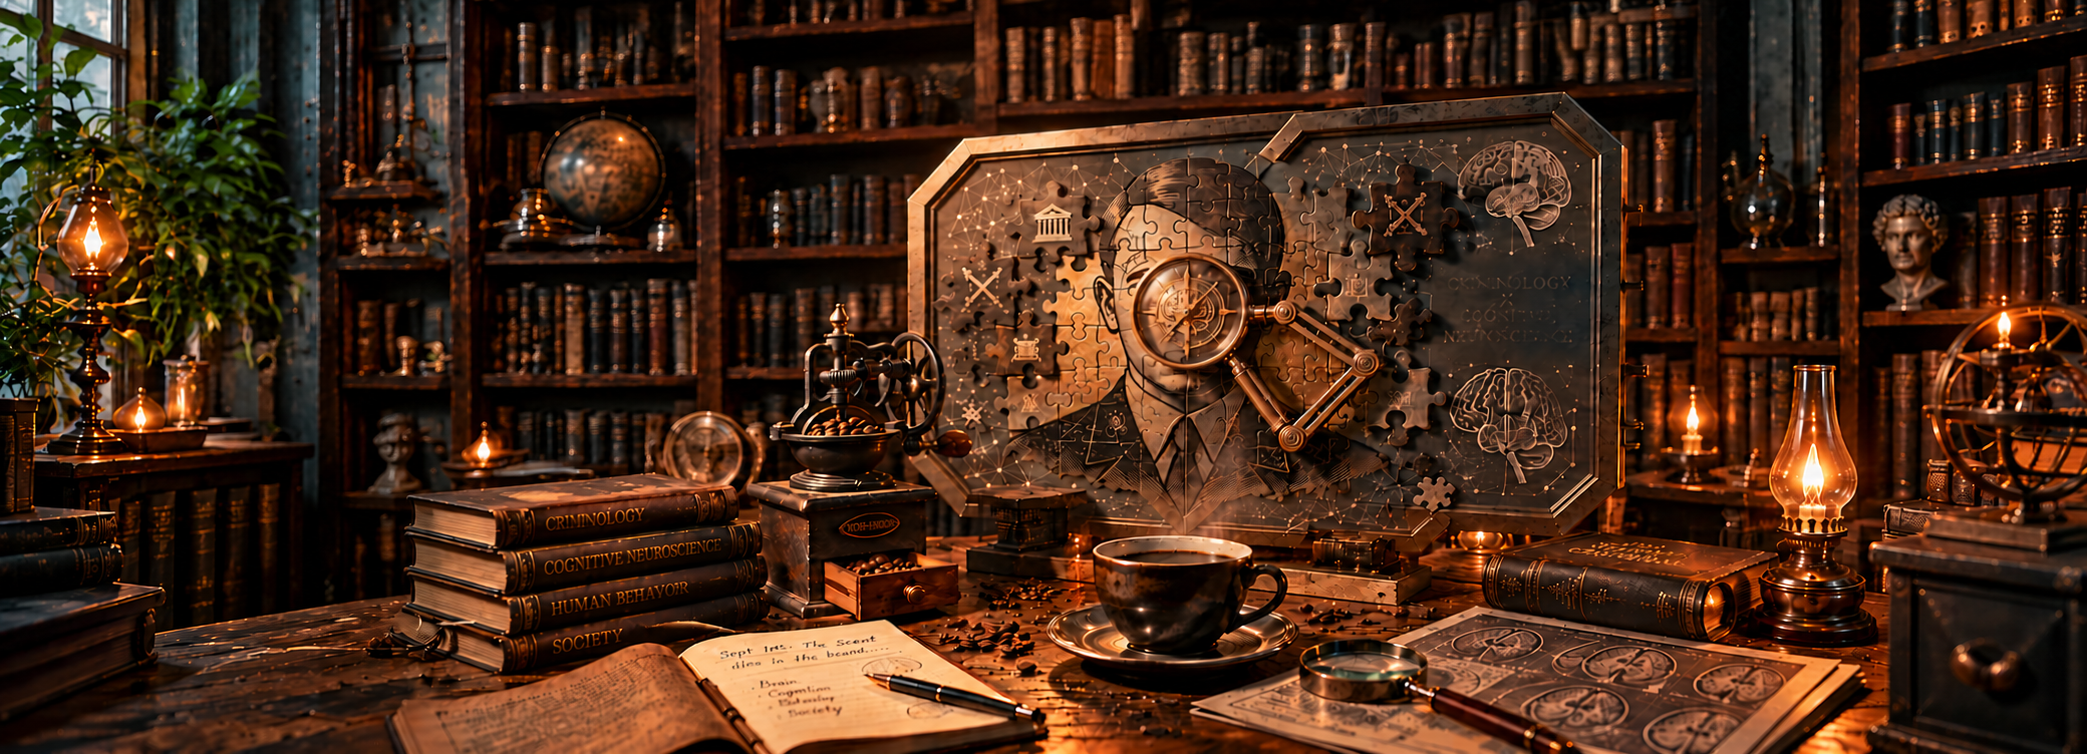
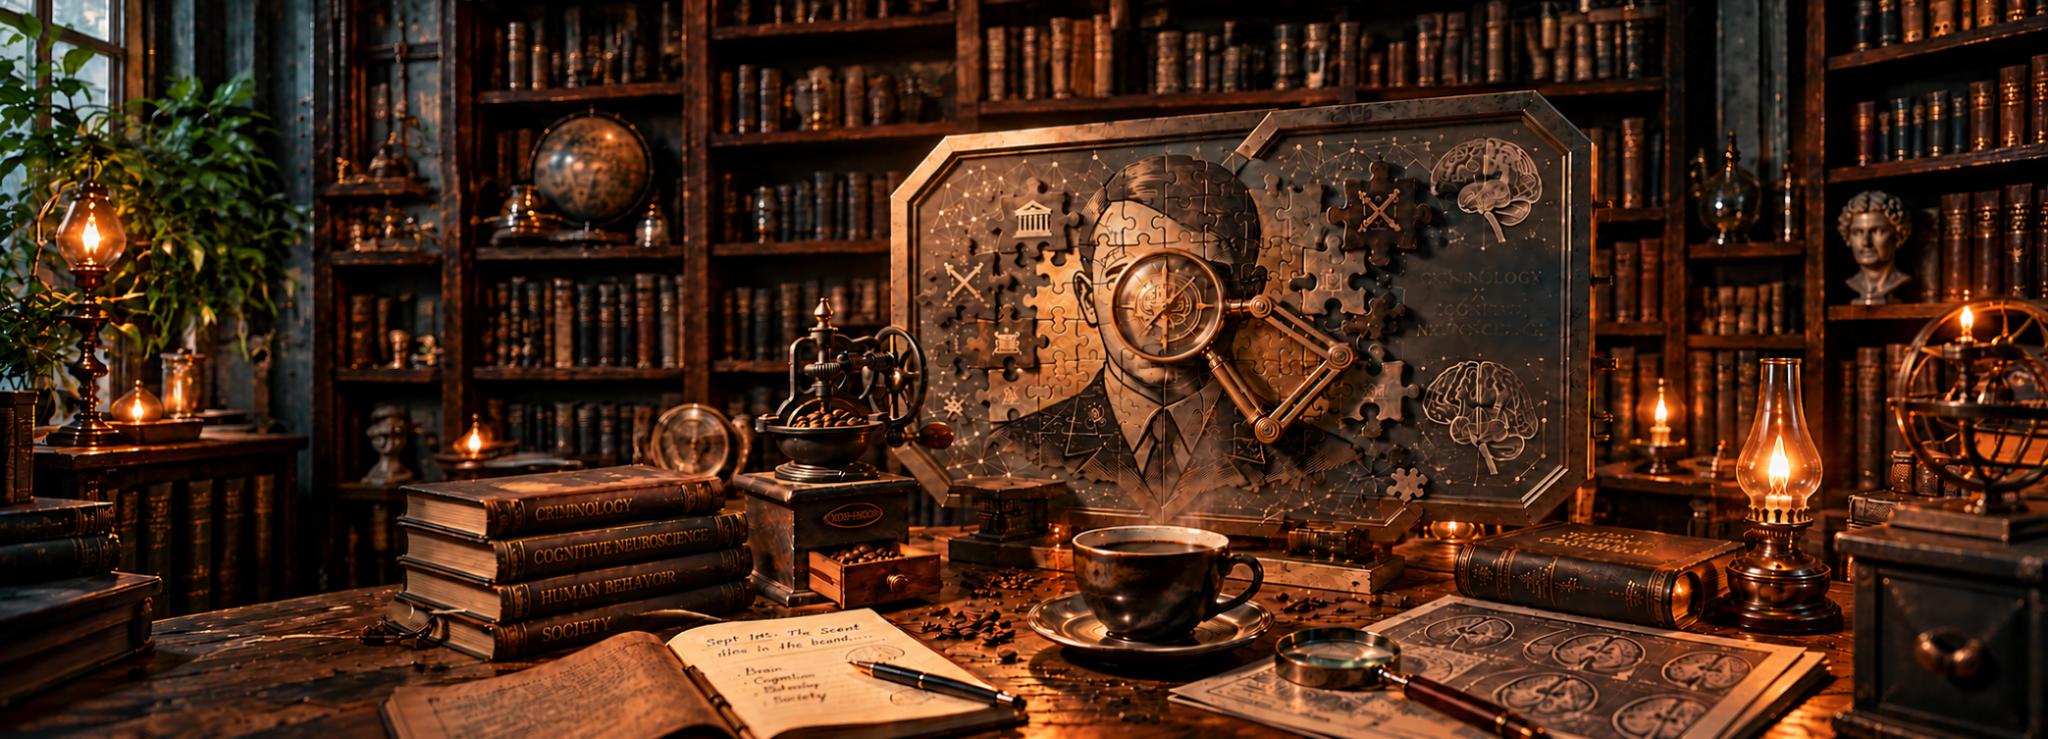
Add files via upload

diff --git a/style.css b/style.css
@@ -5,232 +5,60 @@
 .hero{height:100vh;min-height:720px;position:relative;background:url("hero.png") center/cover no-repeat}.shade{position:absolute;inset:0;background:linear-gradient(90deg,rgba(8,6,4,.88),rgba(8,6,4,.7) 26%,rgba(8,6,4,.18) 49%,transparent 68%)}.hero-copy{position:absolute;z-index:2;left:5.5vw;top:52%;transform:translateY(-43%);width:44vw;max-width:850px}.kicker,.label{font:10px Arial,sans-serif;letter-spacing:.22em;color:#c89958}.hero h1{font-size:clamp(43px,4.6vw,78px);font-weight:400;line-height:1.2;margin:.25em 0}.hero h1 span{color:#d29b50}.hero h1>.second{display:block;margin-top:.18em;color:#eee6d7;font-size:.53em;line-height:1.55}.sub{font-size:16px;margin-top:26px;line-height:1.9}.discover{display:inline-flex;gap:25px;border-top:1px solid #b58a51;margin-top:25px;padding-top:13px;font:10px Arial;letter-spacing:.2em}
 .intro,.research,.methods,.placeholder,.join{padding:8vw 7vw}.intro{display:grid;grid-template-columns:1fr 3fr;background:#e6ded0;color:#17120d}.intro h2,.research h2,.methods h2,.placeholder h2,.join h2{font-size:clamp(38px,5vw,72px);line-height:1.25;font-weight:400}.research{background:#18120d}.cards{display:grid;grid-template-columns:repeat(3,1fr);border-top:1px solid #765a38}.cards article{padding:28px 24px;border-right:1px solid #765a38;border-bottom:1px solid #765a38}.methods{background:#0c1516}.methodgrid{display:grid;grid-template-columns:1fr 1fr}.placeholder{background:#e4ddd0;color:#1b1510}.join{background:#4a2918}footer{padding:32px 7vw;background:#070605}
 @media(max-width:900px){.site-header{height:72px}.brand strong{font-size:16px}.brand small{display:none}.site-header nav{display:none}.menu{display:block;margin-left:auto}.hero-copy{left:7vw;width:86vw}.hero h1{font-size:clamp(42px,11vw,65px)}.intro{grid-template-columns:1fr}.cards{grid-template-columns:1fr}.methodgrid{grid-template-columns:1fr}}
-
-/* PC表示の調整 */
-@media (min-width: 901px) {
-
-  /* ヘッダー */
-  .site-header .brand strong {
-    font-size: 33px !important;
-  }
-
-  .site-header .brand small {
-    font-size: 16px !important;
-  }
-
-  .site-header nav a {
-    font-size: 20px !important;
-  }
-
-  .site-header nav a small {
-    font-size: 14px !important;
-  }
-
- /* トップのメッセージ */
-.hero-copy {
-  width: 50vw !important;
-  max-width: none !important;
+/* Desktop typography and hero: retained from current live design */
+@media (min-width:901px){
+ .site-header .brand strong{font-size:33px}
+ .site-header .brand small{font-size:16px}
+ .site-header nav{gap:clamp(10px,1.15vw,23px)}
+ .site-header nav a{font-size:clamp(12px,1.02vw,20px)}
+ .site-header nav a small{font-size:clamp(9px,.72vw,14px)}
+ .hero-copy{width:50vw;max-width:none}
+ .hero h1{font-size:53px;white-space:nowrap}
+ .hero h1>.second{font-size:.58em;white-space:nowrap}
+ .hero .sub{font-size:20px}
 }
-
-.hero h1 {
-  font-size: 53px !important;
-  white-space: nowrap;
-}
-
-.hero h1 > .second {
-  font-size: 0.58em !important;
-  white-space: nowrap;
-}
-
-.hero .sub {
-  font-size: 20px !important;
-}
-
-.contact{
-  padding:8vw 7vw;
-  background:#4a2918;
-  color:#eee6d7;
-}
-
-.contact h2{
-  font-size:clamp(38px,5vw,72px);
-  line-height:1.25;
-  font-weight:400;
-  margin:.2em 0;
-  color:#e4c18d;
-}
-
-.contact-lead{
-  max-width:760px;
-  margin-bottom:45px;
-}
-
-.contact-grid{
-  display:grid;
-  grid-template-columns:repeat(2,1fr);
-  border-top:1px solid #9a744b;
-}
-
-.contact-grid article{
-  padding:30px;
-  border-right:1px solid #9a744b;
-  border-bottom:1px solid #9a744b;
-}
-
-.contact-grid article:nth-child(2n){
-  border-right:0;
-}
-
-.contact-grid small{
-  font-family:Arial,sans-serif;
-  font-size:9px;
-  letter-spacing:.14em;
-  color:#d3a564;
-}
-
-.contact-grid h3{
-  font-size:24px;
-  margin:.5em 0;
-}
-
+.contact{padding:8vw 7vw;background:#4a2918;color:#eee6d7}
+.contact h2{font-size:clamp(38px,5vw,72px);line-height:1.25;font-weight:400;margin:.2em 0;color:#e4c18d}
+.contact-lead{max-width:760px;margin-bottom:45px}
+.contact-grid{display:grid;grid-template-columns:repeat(2,1fr);border-top:1px solid #9a744b}
+.contact-grid article{padding:30px;border-right:1px solid #9a744b;border-bottom:1px solid #9a744b}
+.contact-grid article:nth-child(2n){border-right:0}
+.contact-grid small{font:9px Arial,sans-serif;letter-spacing:.14em;color:#d3a564}
+.contact-grid h3{font-size:24px;margin:.5em 0}
 @media(max-width:900px){
-  .contact-grid{
-    grid-template-columns:1fr;
-  }
-
-  .contact-grid article{
-    border-right:0;
-  }
+ .contact-grid{grid-template-columns:1fr}
+ .contact-grid article{border-right:0}
+ .hero{height:100svh;min-height:720px;background-position:54% center}
+ .hero-copy{left:7vw;top:50%;width:88vw;transform:translateY(-42%)}
+ .hero h1{font-size:31px;line-height:1.35;white-space:normal;margin:0 0 20px}
+ .hero h1>.second{display:block;font-size:.72em;line-height:1.55;white-space:normal;margin-top:16px}
+ .hero .sub{font-size:13px;line-height:1.9;margin-top:25px}
+ .discover{font-size:9px;margin-top:22px}
+ .site-header{padding:0 5vw}
+ .site-header .brand strong{font-size:18px}
+ .menu{display:block;margin-left:auto;background:transparent;color:#e4c18d;border:1px solid #9a744b;border-radius:0;padding:8px 13px;font:11px Arial,sans-serif;letter-spacing:.12em;cursor:pointer}
+ .site-header.open{height:auto;min-height:72px;flex-wrap:wrap;padding-top:16px;padding-bottom:16px}
+ .site-header.open nav{display:flex;flex-direction:column;width:100%;margin:15px 0 0;gap:0}
+ .site-header.open nav a{display:block;width:100%;padding:10px 0;border-top:1px solid #4d3b2a;font-size:13px}
 }
-
-
-  
-/* ========================================
-   スマホ版 HERO 最終調整
-   ======================================== */
-@media (max-width: 900px) {
-
-  .hero-copy {
-    left: 7vw !important;
-    width: 88vw !important;
-    top: 50% !important;
-  }
-
-  /* 人はなぜ犯罪に至るのか */
-  .hero h1 {
-    font-size: 31px !important;
-    line-height: 1.35 !important;
-    white-space: normal !important;
-  }
-
-  /* なぜ犯罪に至らない者もいるのか */
-  .hero h1 > .second {
-    font-size: 0.72em !important;
-    line-height: 1.55 !important;
-    margin-top: 16px !important;
-    white-space: normal !important;
-  }
-
-  /* 下の説明 */
-  .hero .sub {
-    font-size: 13px !important;
-    line-height: 1.9 !important;
-    margin-top: 25px !important;
-  }
-
-  /* EXPLORE THE LAB */
-  .discover {
-    font-size: 9px !important;
-    margin-top: 22px !important;
-  }
-
-  /* MENU */
-  .menu {
-    display: block !important;
-    margin-left: auto !important;
-    background: transparent !important;
-    color: #e4c18d !important;
-    border: 1px solid #9a744b !important;
-    border-radius: 0 !important;
-    padding: 8px 13px !important;
-    font-family: Arial, sans-serif !important;
-    font-size: 11px !important;
-    letter-spacing: .12em !important;
-  }
-}
-
-  /* ----------------------------
-     トップ画像
-     ---------------------------- */
-
-  .hero {
-    height: 100svh;
-    min-height: 720px;
-
-    /* スマホ用に画像の見える位置を調整 */
-    background-position: 54% center;
-  }
-
-
-  /* ----------------------------
-     トップの文章エリア
-     ---------------------------- */
-
-  .hero-copy {
-  left: 7vw;
-  top: 51%;
-  width: 86vw;
-  transform: translateY(-42%);
-}
-
-.hero h1 {
-  font-size: 36px !important;
-  line-height: 1.30 !important;
-  white-space: normal !important;
-  margin: 0 0 20px;
-}
-
-.hero h1 > .second {
-  display: block;
-  font-size: 0.72em !important;
-  line-height: 1.55 !important;
-  white-space: normal !important;
-  margin-top: 18px;
-}
-
-.hero .sub {
-  font-size: 14px !important;
-  line-height: 1.85 !important;
-  margin-top: 28px;
-}
-
-  /* 説明文 */
-  .hero .sub {
-    font-size: 15px;
-    line-height: 1.9;
-
-    margin-top: 28px;
-  }
-
-
-  /* EXPLORE THE LAB */
-  .discover {
-    margin-top: 24px;
-
-    font-size: 10px;
-  }
-
-
-  /* ----------------------------
-     CONTACT
-     ---------------------------- */
-
-  .contact-grid {
-    grid-template-columns: 1fr;
-  }
-
-  .contact-grid article {
-    border-right: 0;
-  }
-
-}
+.lab-notes{padding:8vw 7vw;background:#15110e;color:#eee6d7;scroll-margin-top:20px}
+.lab-notes h2{font-size:clamp(38px,5vw,72px);font-weight:400;line-height:1.2;margin:16px 0}
+.notes-title-en{display:block;font:11px Arial,sans-serif;letter-spacing:.24em;color:#b99160;margin-top:12px}
+.notes-lead{max-width:780px;font-size:17px;line-height:1.9;margin-bottom:45px}
+.notes-categories{display:grid;grid-template-columns:repeat(2,minmax(0,1fr));border-top:1px solid #745637;border-left:1px solid #745637}
+.notes-categories button{appearance:none;background:transparent;border:0;border-right:1px solid #745637;border-bottom:1px solid #745637;color:inherit;text-align:left;padding:30px;cursor:pointer;min-height:190px;transition:background .2s}
+.notes-categories button:hover,.notes-categories button[aria-pressed=true]{background:#2f2419}
+.notes-categories button small{display:block;font:10px Arial,sans-serif;letter-spacing:.15em;color:#c99c63}
+.notes-categories button strong{display:block;font-size:26px;font-weight:400;margin:16px 0 8px}
+.notes-categories button span{display:block;font-size:14px;color:#c7b8a5}
+.notes-toolbar{display:flex;justify-content:space-between;align-items:center;margin:45px 0 15px;border-bottom:1px solid #745637}
+.notes-toolbar h3{font-size:24px;font-weight:400}
+.notes-toolbar button{background:none;border:0;color:#c99c63;cursor:pointer}
+.notes-list{display:grid;gap:0}
+.note-item{border-bottom:1px solid #5e4731;padding:20px 0}
+.note-item .meta{font:11px Arial,sans-serif;letter-spacing:.08em;color:#c99c63}
+.note-item h4{font-size:22px;font-weight:400;margin:9px 0}
+.note-item p{margin:0 0 8px;color:#d3c6b5}
+.note-item a{display:inline-block;margin-top:10px;border-bottom:1px solid #c99c63;color:#e4c18d}
+.notes-empty{padding:25px 0;color:#c7b8a5}
+@media(max-width:900px){.lab-notes{padding:18vw 7vw}.notes-categories{grid-template-columns:1fr}.notes-categories button{min-height:145px;padding:23px}}

diff --git a/index.html b/index.html
@@ -4,7 +4,7 @@
 <meta charset="utf-8"><meta name="viewport" content="width=device-width,initial-scale=1">
 <title>犯罪認知脳科学研究室 | Criminology & Cognitive Neuroscience Laboratory </title>
 <meta name="description" content="犯罪現象を認知・脳・身体・行動・社会の多水準から捉える犯罪認知脳科学研究室。">
-<link rel="stylesheet" href="style.css?v=21">
+<link rel="stylesheet" href="style.css?v=22">
 </head>
 <body>
 <header class="site-header">
@@ -18,6 +18,7 @@
   <a href="#methods">METHODS<small>研究手法</small></a>
   <a href="#people">MEMBERS<small>メンバー</small></a>
   <a href="#output">PUBLICATIONS<small>研究業績</small></a>
+  <a href="#lab-notes">LAB NOTES<small>研究ノート</small></a>
   <a href="#contact">CONTACT<small>お問い合わせ</small></a>
 </nav>
 </header>
@@ -68,8 +69,22 @@
   <p class="label">06 / NEWS</p><h2>Latest</h2><div id="news-list" class="editable-list"></div>
 </section>
 
+<section class="lab-notes" id="lab-notes">
+  <p class="label">07 / LAB NOTES</p>
+  <h2>研究ノート<span class="notes-title-en">LAB NOTES</span></h2>
+  <p class="notes-lead">研究の成果と過程、学術的な発見、研究室の日常、研究に役立つ道具を記録し、共有します。</p>
+  <div class="notes-categories" id="notes-categories">
+    <button type="button" data-category="reports" aria-pressed="false"><small>01 / RESEARCH REPORTS</small><strong>研究報告</strong><span>論文・学会発表・研究の背景と詳細</span></button>
+    <button type="button" data-category="column" aria-pressed="false"><small>02 / COLUMN</small><strong>コラム</strong><span>犯罪心理学・脳科学の論文紹介と考察</span></button>
+    <button type="button" data-category="life" aria-pressed="false"><small>03 / LAB LIFE</small><strong>研究室の日々</strong><span>ゼミ・実験・学会・研究室の活動</span></button>
+    <button type="button" data-category="tools" aria-pressed="false"><small>04 / RESEARCH TOOLS</small><strong>研究ツール</strong><span>解析コード・資料・研究のためのTips</span></button>
+  </div>
+  <div class="notes-toolbar"><h3>記事一覧</h3><button id="notes-reset" type="button">すべて表示 ↗</button></div>
+  <div id="notes-list" class="notes-list" aria-live="polite"></div>
+</section>
+
 <section class="contact" id="contact">
-  <p class="label">07 / CONTACT</p>
+  <p class="label">08 / CONTACT</p>
 
   <h2>研究室へのお問い合わせ</h2>
 
@@ -109,5 +124,7 @@
 
 </main>
 <footer><strong>犯罪認知脳科学研究室</strong><small>LABORATORY OF CRIMINAL COGNITIVE NEUROSCIENCE</small></footer>
-<script src="content.js?v=2"></script>
+<script src="content.js?v=3"></script>
+<script src="notes-data.js?v=1"></script>
+<script src="notes-ui.js?v=1"></script>
 </body></html>

diff --git a/notes-ui.js b/notes-ui.js
@@ -1,0 +1,17 @@
+(() => {
+  const list = document.getElementById("notes-list");
+  if (!list || typeof LAB_NOTES === "undefined") return;
+  const labels = {reports:"研究報告",column:"コラム",life:"研究室の日々",tools:"研究ツール"};
+  const buttons = [...document.querySelectorAll("[data-category]")];
+  const esc = value => String(value ?? "").replace(/[&<>"']/g, ch => ({"&":"&amp;","<":"&lt;",">":"&gt;",'"':"&quot;","'":"&#39;"}[ch]));
+  let active = null;
+  function render(){
+    buttons.forEach(btn=>btn.setAttribute("aria-pressed",String(btn.dataset.category===active)));
+    const articles = LAB_NOTES.filter(x=>!active||x.category===active).slice().sort((a,b)=>String(b.date).localeCompare(String(a.date)));
+    if(!articles.length){list.innerHTML='<p class="notes-empty">記事は準備中です。</p>';return;}
+    list.innerHTML=articles.map(x=>`<article class="note-item"><div class="meta">${esc(x.date)} / ${esc(labels[x.category]||x.category)} ${Array.isArray(x.tags)?x.tags.map(t=>' · #'+esc(t)).join(''):''}</div><h4>${esc(x.title)}</h4><p>${esc(x.summary)}</p>${x.url && /^(articles\/[-\w./]+\.html|https:\/\/[^\s"<>]+)$/.test(x.url)?`<a href="${esc(x.url)}">続きを読む →</a>`:''}</article>`).join("");
+  }
+  buttons.forEach(btn=>btn.addEventListener("click",()=>{active=active===btn.dataset.category?null:btn.dataset.category;render();}));
+  document.getElementById("notes-reset")?.addEventListener("click",()=>{active=null;render();});
+  render();
+})();

diff --git a/articles/TEMPLATE.html b/articles/TEMPLATE.html
@@ -1,0 +1,1 @@
+<!doctype html><html lang="ja"><head><meta charset="utf-8"><meta name="viewport" content="width=device-width,initial-scale=1"><title>記事タイトル | LAB NOTES</title><link rel="stylesheet" href="../style.css"></head><body><main class="lab-notes"><a href="../index.html#lab-notes">← 研究ノートに戻る</a><p class="label">LAB NOTES</p><h1>記事タイトル</h1><p>公開日・著者・カテゴリー</p><p>本文をここに記載します。</p><h2>参考文献</h2><p>参考文献をここに記載します。</p></main></body></html>

diff --git a/notes-data.js b/notes-data.js
@@ -1,0 +1,9 @@
+/* LAB NOTESの記事情報。記事を公開するときは下の配列に追加してください。
+   本文ファイルは articles/ フォルダへ置きます。
+   例（これはコメントなので公開されません）:
+   {id:"first-report", category:"reports", date:"2026-11-01",
+    title:"研究報告のタイトル", summary:"研究の概要",
+    tags:["fNIRS","犯罪心理学"], url:"articles/first-report.html"}
+*/
+const LAB_NOTES = [
+];
